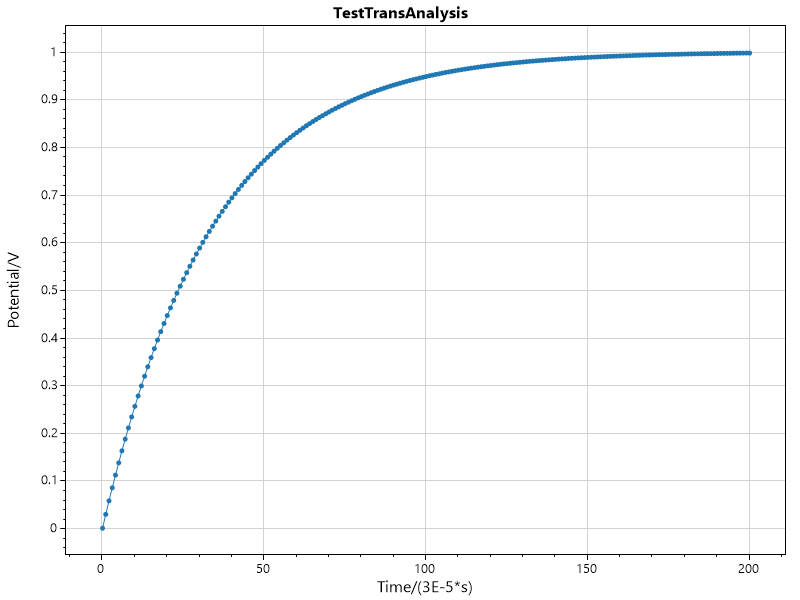
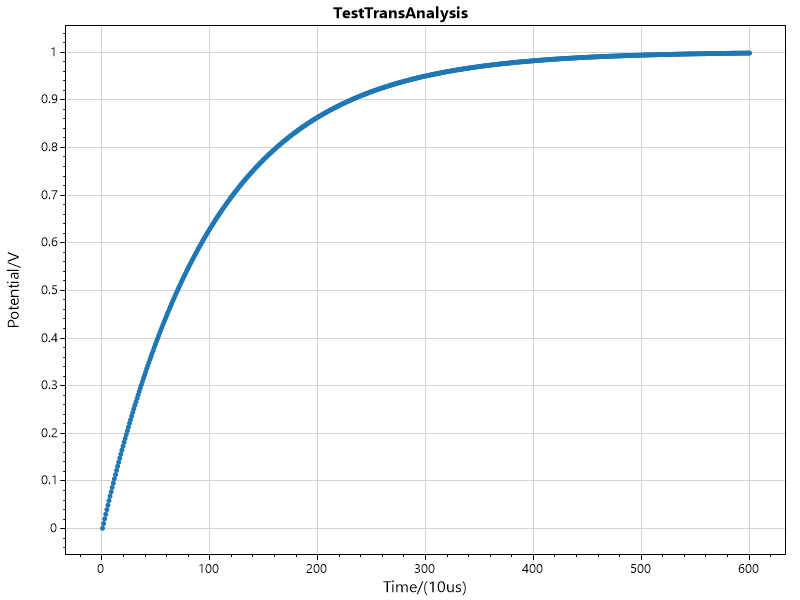
Added Transient Analysis to test-library

diff --git a/test-library/TestTransientAnalysis.cs b/test-library/TestTransientAnalysis.cs
@@ -1,16 +1,12 @@
-using System.Linq;
-using System.Collections.Generic;
 using System;
+using System.Collections.Generic;
 using library;
+using MathNet.Numerics;
+using MathNet.Numerics.LinearAlgebra;
+using Xunit;
 
-namespace app {
-    class Program {
-        static void Main(string[] args) {
-            Console.WriteLine("Hello World!");
-            TestPlotBasic();
-            TestTransAnalysis();
-        }
-
+namespace test_library {
+    public class TestTransientAnalysis {
         public static Circuit TestCkt2() {
             var testCkt = new Circuit("testTransAnalysis");
             var gnd = testCkt.ground;
@@ -25,6 +21,7 @@ namespace app {
             return testCkt;
         }
 
+        /*
         static void TestPlotBasic() {
             int pointCount = 50;
             double[] dataXs = ScottPlot.DataGen.Consecutive(pointCount);
@@ -39,7 +36,9 @@ namespace app {
             plt.YLabel("Potential (V)");
             plt.SaveFig("./Plots/01a_Quickstart.png");
         }
+        */
 
+        [Fact]
         static void TestTransAnalysis() {
             var ckt2 = TestCkt2();
             var data = new TransientAnalysisData(ckt2, 1E-5, 6E-3);
@@ -50,13 +49,34 @@ namespace app {
             }
             double[] dataV = dataVList.ToArray();
 
-            /*
-            for (int i = 0; i < 20; i++) {
-                Console.Write("{0}, ", dataV[i]);
-            }
-            Console.WriteLine();
-            */
+            double[] shouldDataV = {
+                0,
+                0.009900990099009901,
+                0.019703950593079108,
+                0.029409852072355552,
+                0.039019655517183706,
+                0.048534312393251185,
+                0.057954764745793245,
+                0.06728194529286459,
+                0.0765167775176877,
+                0.08566017576008682,
+                0.09471304530701664,
+                0.10367628248219468,
+                0.1125507747348462,
+                0.12133740072757047,
+                0.13003703042333706,
+                0.13865052517162083,
+                0.14717873779368396,
+                0.1556225126670138,
+                0.16398268580892456,
+                0.1722600849593312,
+            };
 
+            for (int i = 0; i < 20; i++) {
+                Assert.True(Precision.AlmostEqual(dataV[i], shouldDataV[i], 8));
+            }
+
+            /*
             int pointCount = dataV.Length;
             double[] dataXs = ScottPlot.DataGen.Consecutive(pointCount);
 
@@ -66,6 +86,7 @@ namespace app {
             plt.XLabel("Time/(10us)");
             plt.YLabel("Potential/V");
             plt.SaveFig("./Plots/TestTransAnalysis.png");
+            */
         }
     }
 }

diff --git a/library/TransientAnalysis.cs b/library/TransientAnalysis.cs
@@ -1,4 +1,3 @@
-using System.Runtime.CompilerServices;
 using System.Collections.Generic;
 using System;
 using System.Linq;
